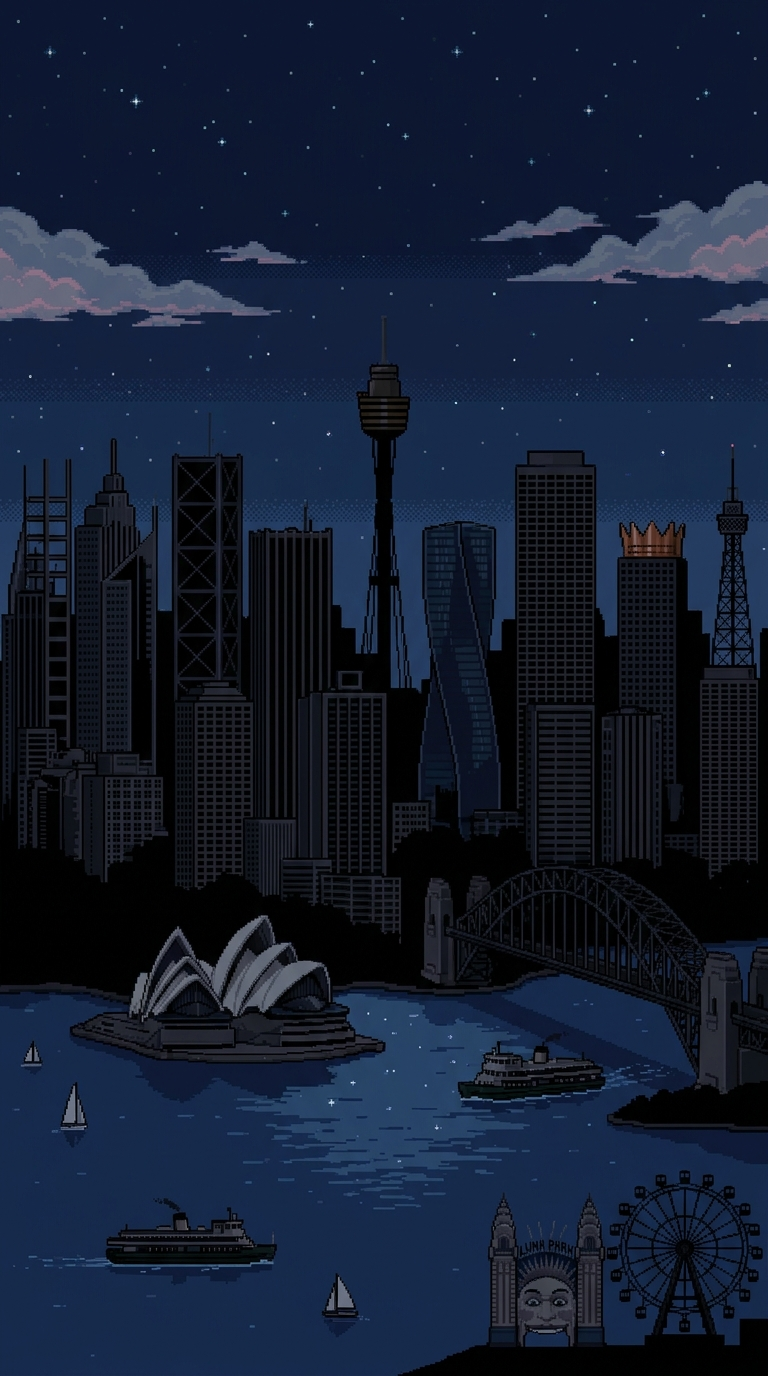
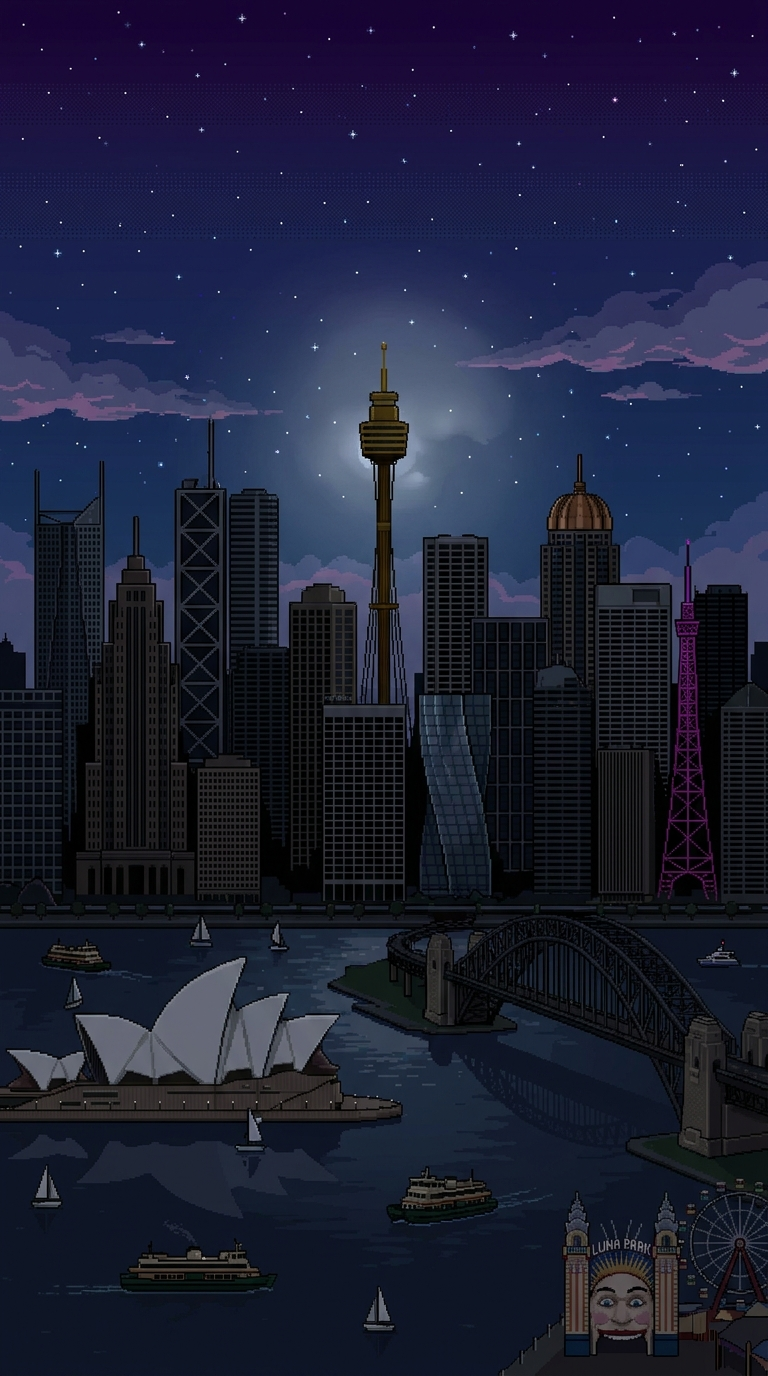
Graphics polish — 10 improvements
- #1 window flicker bursts on fresh paint (200ms shimmer)
- #2 wall-bleed glow (3px halo, 0.3 alpha) onto adjacent dark wall
- #3 vertical light columns streaking from bright windows into harbour water
- #4 sharper window edges (imageSmoothingEnabled=false on painted layer)
- #5 peak-bright bypass in mask for Sydney Harbour Bridge cable LEDs (lower-half only, gated by on/off diff to exclude sky stars)
- #6 cluster bloom scaling — bloom radius+alpha grow with litFraction
- #7 regenerated skyline-off with rich navy-purple gradient sky + dense star field via Gemini 3 Pro
- #8 additive 'lighter' blend on main paint pass for overlap saturation
- #9 sub-pixel brush smoothing (paintLine step 2px → 1px)
- bonus: mask now requires diff>40 on/off luminance — stars stay sky, only true windows pass

Mask verified: 48 lit / 327 dark per painted row = correct sparse window grid

diff --git a/index.html b/index.html
@@ -534,6 +534,10 @@
   const bloomCtx = bloomCanvas.getContext('2d');
   const bloomCanvas2 = document.createElement('canvas');
   const bloomCtx2 = bloomCanvas2.getContext('2d');
+  // Flicker layer — short-lived bright bursts on fresh paint (#1)
+  const flickerCanvas = document.createElement('canvas');
+  const flickerCtx = flickerCanvas.getContext('2d');
+  const flickers = []; // {x, y, t, dur, color}
 
   const offImg = new Image();
   const onImg = new Image();
@@ -609,6 +613,8 @@
     bloomCanvas.height = Math.floor(H * 0.6);
     bloomCanvas2.width = Math.floor(W * 0.6);
     bloomCanvas2.height = Math.floor(H * 0.6);
+    flickerCanvas.width = W;
+    flickerCanvas.height = H;
 
     if (offImg.complete && offImg.naturalWidth) imgFit = computeFit(offImg, W, H);
   }
@@ -656,23 +662,33 @@
     const out = maskCtx.createImageData(w, h);
     const outData = out.data;
 
-    // Window = LOCAL BRIGHT PEAK: pixel brighter than its mortar neighbors by ~35 lum.
-    // Solid lit facades fail this test (no contrast vs neighbors).
-    // Real window grid in source image passes (lit cell vs dark mortar gap).
+    // Window = LOCAL BRIGHT PEAK in on-image that DIDN'T exist in off-image.
+    // Stars/moon present in both images → diff~0 → excluded.
+    // Lit windows only in on-image → diff huge → included.
     const oceanStartY = Math.floor(h * 0.78);
-    // Precompute luminance per pixel
-    const lumArr = new Float32Array(w * h);
+    const lumOn = new Float32Array(w * h);
+    const lumOff = new Float32Array(w * h);
     for (let i = 0, p = 0; i < w * h; i++, p += 4) {
-      lumArr[i] = onData[p] * 0.299 + onData[p+1] * 0.587 + onData[p+2] * 0.114;
+      lumOn[i] = onData[p] * 0.299 + onData[p+1] * 0.587 + onData[p+2] * 0.114;
+      lumOff[i] = offData[p] * 0.299 + offData[p+1] * 0.587 + offData[p+2] * 0.114;
     }
     const D = 4; // sample distance for neighbor mortar
     for (let y = D; y < oceanStartY - D; y++) {
       for (let x = D; x < w - D; x++) {
         const idx = y * w + x;
-        const lum = lumArr[idx];
-        if (lum < 70) continue; // too dark to be window
+        const lum = lumOn[idx];
+        // Must be much brighter in on than in off (excludes stars/moon)
+        const diff = lum - lumOff[idx];
+        if (diff < 40) continue;
+        // #5 — peak-bright bypass for bridge LEDs (only below sky region)
+        if (lum > 200 && y > h * 0.45) {
+          const p = idx * 4;
+          outData[p] = 255; outData[p+1] = 255; outData[p+2] = 255; outData[p+3] = 255;
+          continue;
+        }
+        if (lum < 70) continue;
         // Mortar = avg of 4 neighbors at distance D (left/right/up/down)
-        const mortar = (lumArr[idx - D] + lumArr[idx + D] + lumArr[idx - D * w] + lumArr[idx + D * w]) * 0.25;
+        const mortar = (lumOn[idx - D] + lumOn[idx + D] + lumOn[idx - D * w] + lumOn[idx + D * w]) * 0.25;
         if (lum - mortar > 30) {
           const p = idx * 4;
           outData[p] = 255; outData[p+1] = 255; outData[p+2] = 255; outData[p+3] = 255;
@@ -782,11 +798,16 @@
     if (Math.random() < 0.1) {
       playBlip(colorToFreq(hex) * (0.9 + Math.random() * 0.4), 0.06, 'square', 0.04);
     }
+    // #1 — window flicker burst (capped to avoid memory bloat)
+    if (flickers.length < 200 && Math.random() < 0.55) {
+      flickers.push({ x, y, t: state.time, dur: 0.22 + Math.random() * 0.15, color: hex });
+    }
   }
   function paintLine(x1, y1, x2, y2) {
     const dx = x2 - x1, dy = y2 - y1;
     const dist = Math.sqrt(dx * dx + dy * dy);
-    const steps = Math.max(1, Math.ceil(dist / 2));
+    // #9 — sub-pixel smoothing: step every 1 pixel
+    const steps = Math.max(1, Math.ceil(dist));
     for (let i = 0; i <= steps; i++) {
       const t = i / steps;
       paintAt(x1 + dx * t, y1 + dy * t);
@@ -796,6 +817,7 @@
   // ============= RESET + SAVE =============
   function resetSkyline() {
     litCtx.clearRect(0, 0, W, H);
+    flickers.length = 0;
     particles.length = 0;
     state.litFraction = 0;
     state.achievementShown = false;
@@ -913,15 +935,33 @@
     }
     tempCtx.globalCompositeOperation = 'source-over';
 
-    // Static — no pulse/cycle/disco animation. Just boost lights so they pop.
+    // #2 — wall bleed: tight 3px halo of painted color leaks onto adjacent dark wall
     ctx.save();
+    ctx.filter = 'blur(3px) saturate(1.4) brightness(1.1)';
+    ctx.globalAlpha = 0.3;
+    ctx.drawImage(tempCanvas, 0, 0, W, H);
+    ctx.filter = 'none';
+    ctx.globalAlpha = 1;
+    ctx.restore();
+
+    // #4 + #8 — crisp window edges with additive overlap blend
+    ctx.save();
+    ctx.imageSmoothingEnabled = false;
+    ctx.globalCompositeOperation = 'lighter';
     ctx.filter = 'saturate(1.6) brightness(1.4)';
     ctx.drawImage(tempCanvas, 0, 0, W, H);
     ctx.filter = 'none';
+    ctx.globalCompositeOperation = 'source-over';
+    ctx.imageSmoothingEnabled = true;
     ctx.restore();
+
+    // #1 — flicker bursts on freshly-painted windows
+    drawFlickers();
 
     // Water reflection — flip the painted layer vertically into water area, fade + horizontal jitter
     drawWaterReflection();
+    // #3 — vertical LED columns streaking into water
+    drawLightColumns();
 
     applyBloom();
     drawParticles();
@@ -974,6 +1014,64 @@
     }
     ctx.globalAlpha = 1;
     ctx.globalCompositeOperation = 'source-over';
+    ctx.restore();
+  }
+
+  // #1 — drawFlickers: short white shimmer at fresh paint locations
+  function drawFlickers() {
+    if (flickers.length === 0) return;
+    ctx.save();
+    ctx.globalCompositeOperation = 'lighter';
+    const now = state.time;
+    for (let i = flickers.length - 1; i >= 0; i--) {
+      const f = flickers[i];
+      const age = now - f.t;
+      if (age >= f.dur) { flickers.splice(i, 1); continue; }
+      const p = age / f.dur;
+      const alpha = (1 - p) * (0.5 + 0.5 * Math.sin(age * 60));
+      const rad = 3 + p * 4;
+      const grad = ctx.createRadialGradient(f.x, f.y, 0, f.x, f.y, rad);
+      grad.addColorStop(0, `rgba(255,255,255,${alpha})`);
+      grad.addColorStop(0.5, f.color);
+      grad.addColorStop(1, 'rgba(0,0,0,0)');
+      ctx.fillStyle = grad;
+      ctx.beginPath();
+      ctx.arc(f.x, f.y, rad, 0, Math.PI * 2);
+      ctx.fill();
+    }
+    ctx.restore();
+  }
+
+  // #3 — vertical light columns: bright windows above water leak downward into harbour
+  function drawLightColumns() {
+    const waterY = Math.floor(H * WATER_LINE);
+    if (waterY >= H - 4) return;
+    // Sample 1px-tall strip just above waterline; find bright columns
+    const strip = tempCtx.getImageData(0, Math.max(0, waterY - 3), W, 3).data;
+    ctx.save();
+    ctx.globalCompositeOperation = 'lighter';
+    for (let x = 0; x < W; x += 2) {
+      // Avg the 3 rows for the column
+      let r = 0, g = 0, b = 0, n = 0;
+      for (let row = 0; row < 3; row++) {
+        const i = (row * W + x) * 4;
+        if (strip[i + 3] > 30) {
+          r += strip[i]; g += strip[i + 1]; b += strip[i + 2]; n++;
+        }
+      }
+      if (n === 0) continue;
+      r /= n; g /= n; b /= n;
+      const lum = r * 0.299 + g * 0.587 + b * 0.114;
+      if (lum < 80) continue;
+      // Draw vertical streak down into water, fading
+      const streakH = Math.min(H - waterY, 60 + lum * 0.3);
+      const grad = ctx.createLinearGradient(0, waterY, 0, waterY + streakH);
+      grad.addColorStop(0, `rgba(${r|0},${g|0},${b|0},0.55)`);
+      grad.addColorStop(0.5, `rgba(${r|0},${g|0},${b|0},0.18)`);
+      grad.addColorStop(1, `rgba(${r|0},${g|0},${b|0},0)`);
+      ctx.fillStyle = grad;
+      ctx.fillRect(x, waterY, 2, streakH);
+    }
     ctx.restore();
   }
 
@@ -1038,28 +1136,30 @@
     bloomCtx.filter = 'brightness(1.7) saturate(1.6)';
     bloomCtx.drawImage(tempCanvas, 0, 0, bw, bh);
     bloomCtx.filter = 'none';
-    // Tight halo — small blur for nearby glow
+    // Tight halo — keep tight, hugs windows
     bloomCtx2.clearRect(0, 0, bw, bh);
-    bloomCtx2.filter = 'blur(3px)';
+    bloomCtx2.filter = 'blur(2px)';
     bloomCtx2.drawImage(bloomCanvas, 0, 0);
-    // Composite tight halo (bright, additive)
     ctx.save();
     ctx.globalCompositeOperation = 'lighter';
     ctx.globalAlpha = 0.85;
     ctx.drawImage(bloomCanvas2, 0, 0, W, H);
-    // Medium halo
+    // Medium halo — softer
     bloomCtx2.clearRect(0, 0, bw, bh);
-    bloomCtx2.filter = 'blur(10px)';
+    bloomCtx2.filter = 'blur(5px)';
     bloomCtx2.drawImage(bloomCanvas, 0, 0);
     bloomCtx2.filter = 'none';
-    ctx.globalAlpha = 0.55;
+    ctx.globalAlpha = 0.4;
     ctx.drawImage(bloomCanvas2, 0, 0, W, H);
-    // Wide halo (atmospheric glow)
+    // Wide halo (atmospheric) — #6: scales with density but capped tight
+    const dens = state.litFraction || 0;
+    const wideBlur = 12 + dens * 16;
+    const wideAlpha = 0.18 + dens * 0.25;
     bloomCtx2.clearRect(0, 0, bw, bh);
-    bloomCtx2.filter = 'blur(28px)';
+    bloomCtx2.filter = `blur(${wideBlur}px)`;
     bloomCtx2.drawImage(bloomCanvas, 0, 0);
     bloomCtx2.filter = 'none';
-    ctx.globalAlpha = 0.35;
+    ctx.globalAlpha = wideAlpha;
     ctx.drawImage(bloomCanvas2, 0, 0, W, H);
     ctx.globalAlpha = 1;
     ctx.globalCompositeOperation = 'source-over';

diff --git a/scripts/gen-skyline.py b/scripts/gen-skyline.py
@@ -78,12 +78,15 @@ def main():
     )
 
     off_prompt = base_prompt + (
-        " LIGHTS OFF state — TOTAL BLACKOUT NIGHT. EVERY building window completely DARK. "
-        "City as pure dark silhouettes against starry navy sky. "
-        "NO window lights ANYWHERE. NO neon. NO warm glow. Bridge dark steel only. Opera House sails plain unlit white-grey. "
+        " LIGHTS OFF state — TOTAL BLACKOUT NIGHT with RICH ATMOSPHERIC SKY. EVERY building window completely DARK. "
+        "City as pure dark silhouettes. "
+        "Sky: lush deep-navy at horizon graduating to PURPLE-INDIGO at top zenith, "
+        "DENSE STAR FIELD scattered across whole sky (small bright pinprick stars, hundreds visible), "
+        "soft pixel cloud whisps with subtle pink/violet edges drifting across, faint moon haze. "
+        "NO window lights ANYWHERE in buildings. NO neon. NO warm glow. Bridge dark steel only. Opera House sails plain unlit white-grey. "
         "Luna Park ferris wheel and face entrance UNLIT silhouettes. Ferry hulls visible but cabin windows dark. "
-        "Water reflects only the moon and stars (no city lights). "
-        "Pre-event night — the city has gone dark, lights waiting to be turned on. Stars and clouds visible only."
+        "Water = dark glassy harbour reflecting moon and stars only (no city lights yet). "
+        "Pre-event night — city gone dark, lights waiting to be turned on. Atmospheric, moody, beautiful, painterly pixel-art sky."
     )
 
     on_prompt_text = (